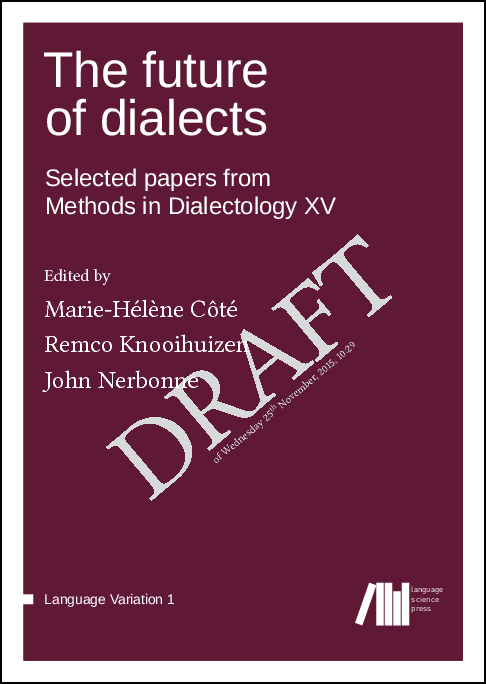
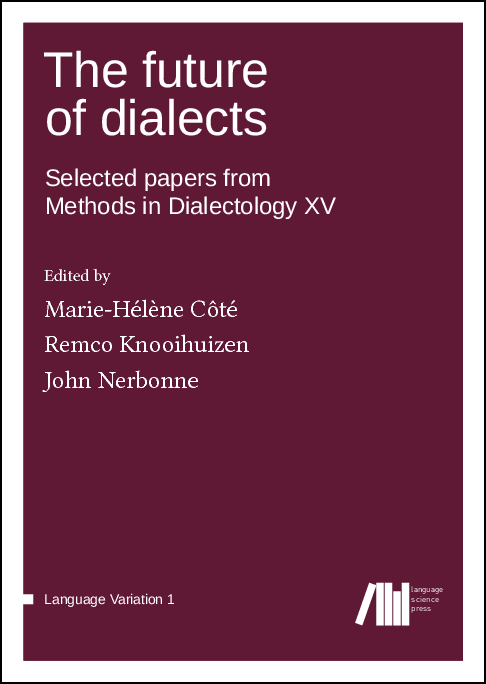
fixed sort order of names with diacritics

Changed region(s): [[0.216, 0.3377, 0.8025, 0.7368], [0.4012, 0.5219, 0.4321, 0.5526]]

diff --git a/createspacecover.tex b/createspacecover.tex
@@ -3,7 +3,7 @@
 %%%     Language Science Press Master File       %%%
 %%%         follow the instructions below        %%%
 %%%                                              %%%
-%%%%%%%%%%%%%%%%%%%%%%%%%%%%%%%%%%%%%%%%%%%%%%%%%%%%
+%%%%%%%%%%%%%%%%%%%%%%%%%%%%%%%%%%%%%%%%%%%%%%%%%%%% 
  
 % Everything following a % is ignored
 % Some lines start with %. Remove the % to include them
@@ -16,8 +16,9 @@
 	        ,collectiontoclongg
 % 	        ,biblatexbackend=bibtex
  	        ,biblatex  
-%             ,draft
-            ,draftmode
+ 	        ,leqno
+%              ,draft
+%              ,draftmode
 		  ]{LSP/langsci}                               %%%
 %%%%%%%%%%%%%%%%%%%%%%%%%%%%%%%%%%%%%%%%%%%%%%%%%%%%
 
@@ -44,42 +45,66 @@
 
 \currentpdfbookmark{Contents}{name} % adds a PDF bookmark
 \tableofcontents
-% \include{chapters/preface}
-% \include{chapters/acknowledgments}
+% \listoftables %books with Language Science Press do not have lists of tables or lists of figures
+ \include{chapters/preface}
+ \include{chapters/acknowledgments}
 
 \mainmatter          
 
-%%%%%%%%%%%%%%%%%%%%%%%%%%%%%%%%%%%%%%%%%%%%%%%%%%%%
-%%%                                              %%%
-%%%             Chapters                         %%%
-%%%                                              %%%
-%%%%%%%%%%%%%%%%%%%%%%%%%%%%%%%%%%%%%%%%%%%%%%%%%%%%
+%%%%%%%%%%%%%%%%%%%%%%%%%%%%%%%%%%%%%%%%%%%%%%%%%%%
+%%                                              %%%
+%%             Chapters                         %%%
+%%                                              %%%
+%%%%%%%%%%%%%%%%%%%%%%%%%%%%%%%%%%%%%%%%%%%%%%%%%%%
+  
  
-% 
-%\includepaper{chapters/intro}
-%\includepaper{chapters/nagy}
-%\includepaper{chapters/ghys}
-%\includepaper{chapters/llop}
-%\includepaper{chapters/pickl} 
-%\includepaper{chapters/mathus}
+\includepaper{chapters/intro}
+\includepaper{chapters/nagy}
+\il{Western Flemish|(}
+\includepaper{chapters/ghys}
+\il{Western Flemish|)}
+\il{Catalan|(}
+\includepaper{chapters/llop}
+\il{Catalan|)}
+\il{German|(}
+\includepaper{chapters/pickl} 
+\includepaper{chapters/mathus}
+\il{German|)}
+\il{Italian|(}
 \includepaper{chapters/monte_wiel} 
-%\includepaper{chapters/brun_etal}  
-%\includepaper{chapters/bloem_etal}
-%\includepaper{chapters/kend_frid}
-%\includepaper{chapters/stoeck}
-%\includepaper{chapters/wiel_monte}
-%\includepaper{chapters/wolk_szmr}
-%\includepaper{chapters/schaf_etal}
-%\includepaper{chapters/lara}
-%\includepaper{chapters/skevin}
-%\includepaper{chapters/hirano}
-%\includepaper{chapters/cari_etal}
-%\includepaper{chapters/sprea}
-%\includepaper{chapters/kuma}
-%\includepaper{chapters/fuku}
-%\includepaper{chapters/onishi}
-%\includepaper{chapters/ota_etal} 
-
+\il{Italian|)}
+\il{Breton|(}
+\includepaper{chapters/brun_etal}  
+\il{Breton|)}
+\includepaper{chapters/bloem_etal}
+\il{American English|(}
+\includepaper{chapters/kend_frid}
+\il{American English|)}
+\includepaper{chapters/stoeck}
+\includepaper{chapters/wiel_monte}
+\includepaper{chapters/wolk_szmr}
+\includepaper{chapters/schaf_etal}
+\il{Spanish|(}
+\includepaper{chapters/lara}
+\il{Spanish|)}
+\il{Croatian|(}
+\includepaper{chapters/skevin}
+\il{Croatian|)}
+\il{Japanese|(}
+\includepaper{chapters/hirano}
+\il{Japanese|)}
+\includepaper{chapters/cari_etal}
+\il{Tyrolean|(}
+\il{Italian|(}
+\includepaper{chapters/sprea}
+\il{Tyrolean|)}
+\il{Italian|)}
+\il{Japanese|(}
+\includepaper{chapters/kuma}
+\includepaper{chapters/fuku}
+\includepaper{chapters/onishi}
+\includepaper{chapters/ota_etal}   
+\il{Japanese|)}
 
 \input{backmatter.tex}
 

diff --git a/chapters/skevin.tex b/chapters/skevin.tex
@@ -6,11 +6,7 @@
 }
 
 \maketitle 
-\begin{document}
- 
-
-% {\centering \\
-% \centering \\}
+\begin{document} 
  
 \largerpage[-1]
 \section{Introduction}
